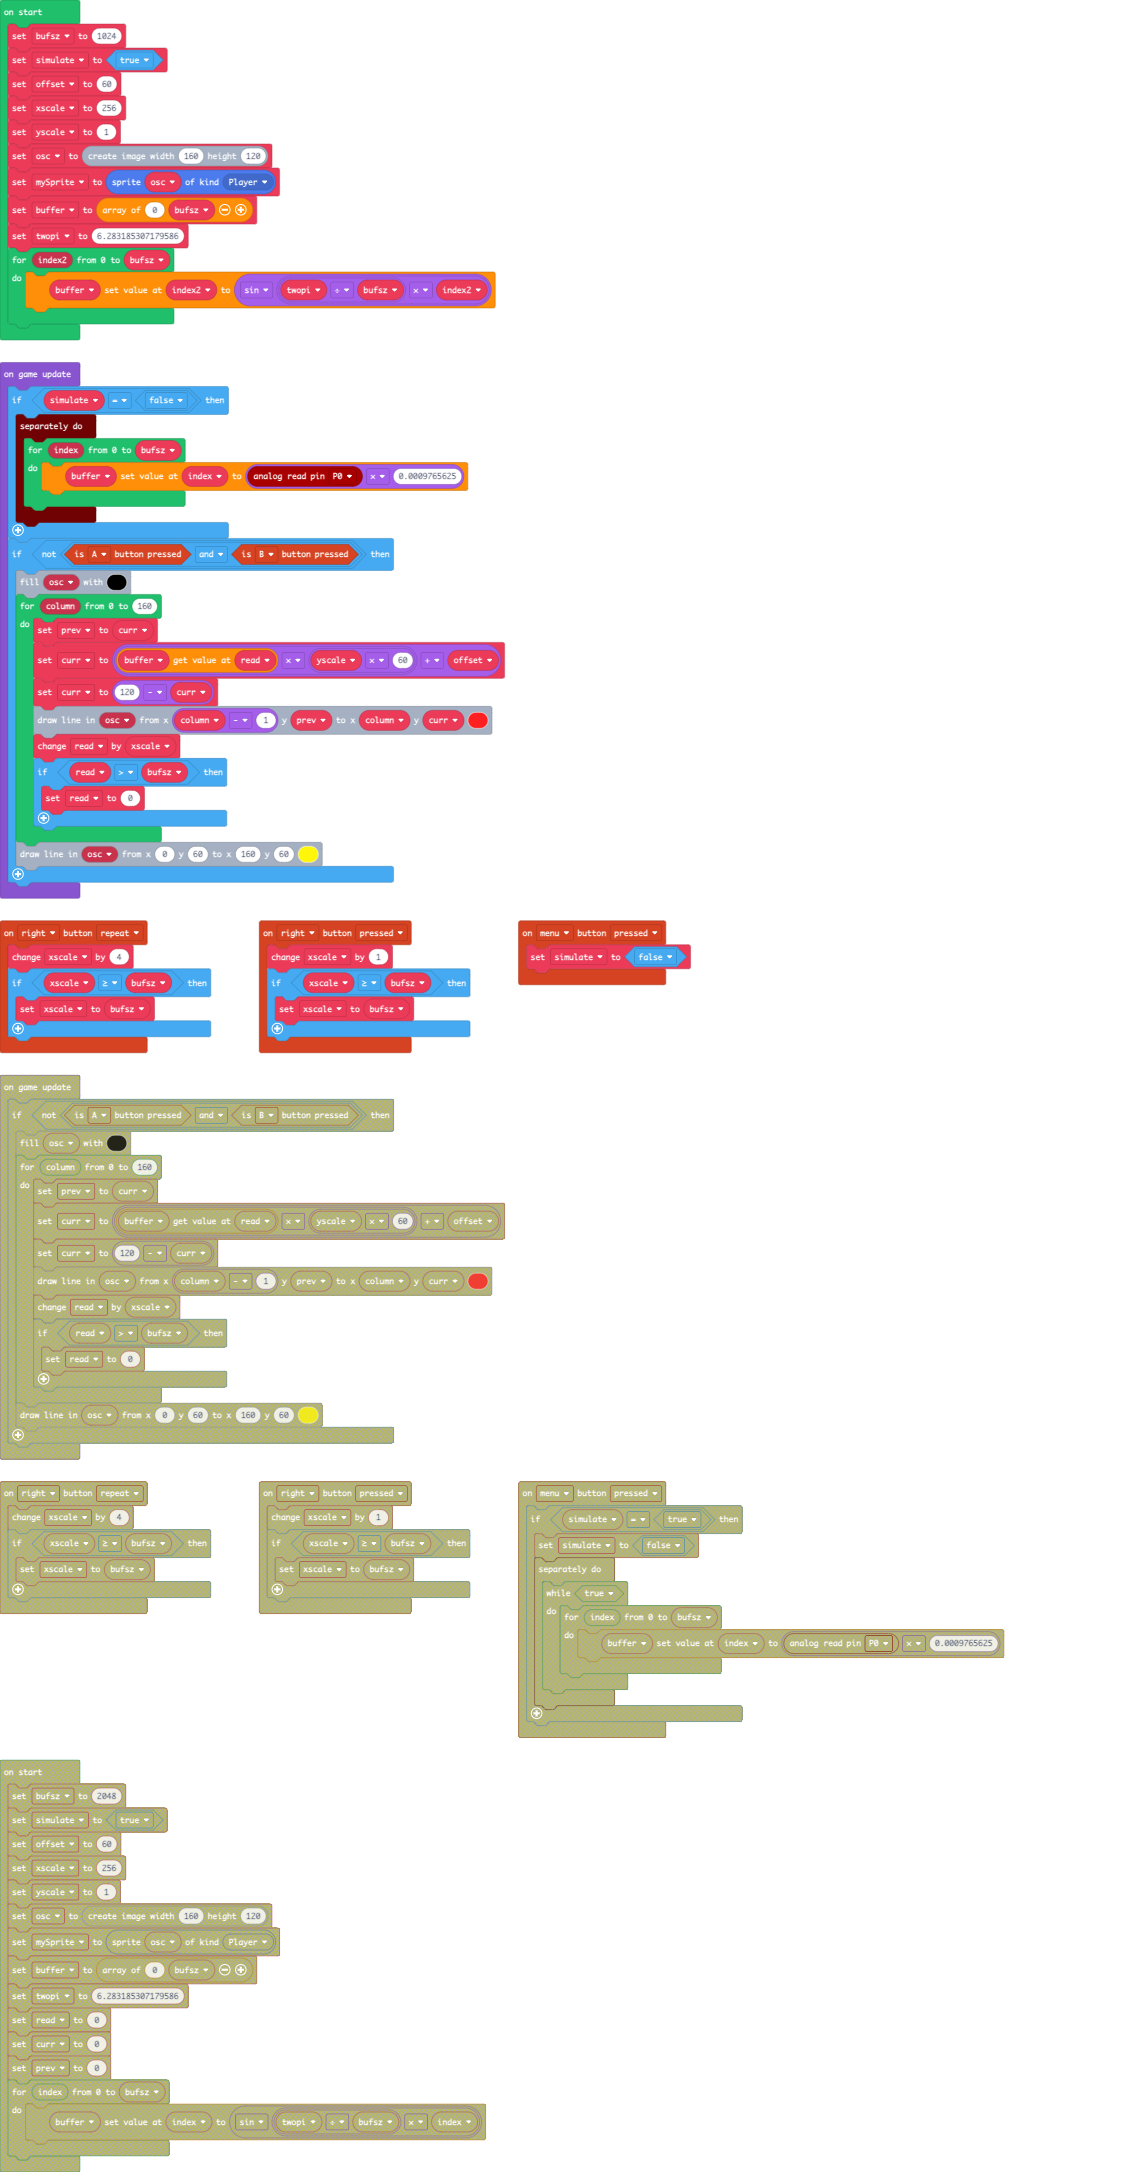
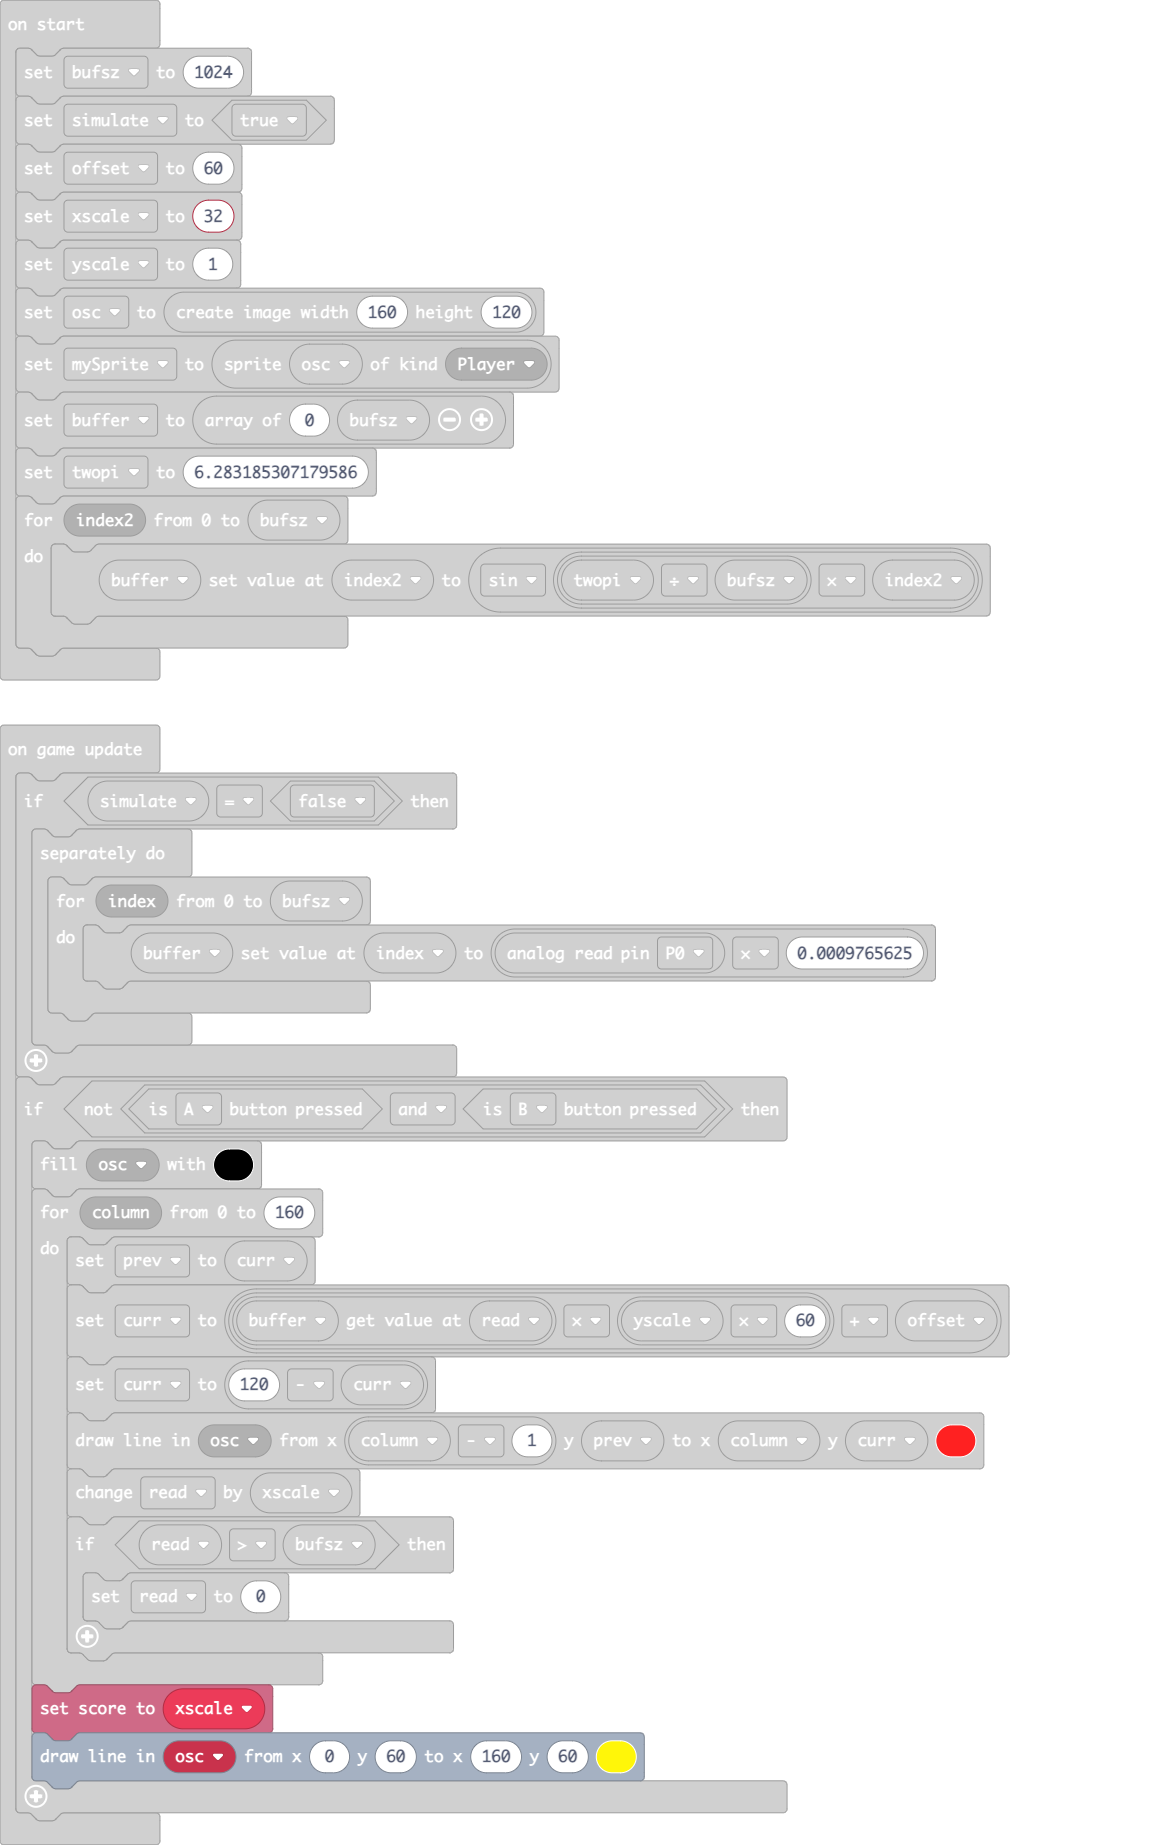
show xscale

diff --git a/main.ts b/main.ts
@@ -46,7 +46,7 @@ let bufsz = 0
 bufsz = 1024
 simulate = true
 let offset = 60
-xscale = 256
+xscale = 32
 let yscale = 1
 let osc = image.create(160, 120)
 let mySprite = sprites.create(osc, SpriteKind.Player)
@@ -75,6 +75,7 @@ game.onUpdate(function () {
                 read = 0
             }
         }
+        info.setScore(xscale)
         osc.drawLine(0, 60, 160, 60, 5)
     }
 })
